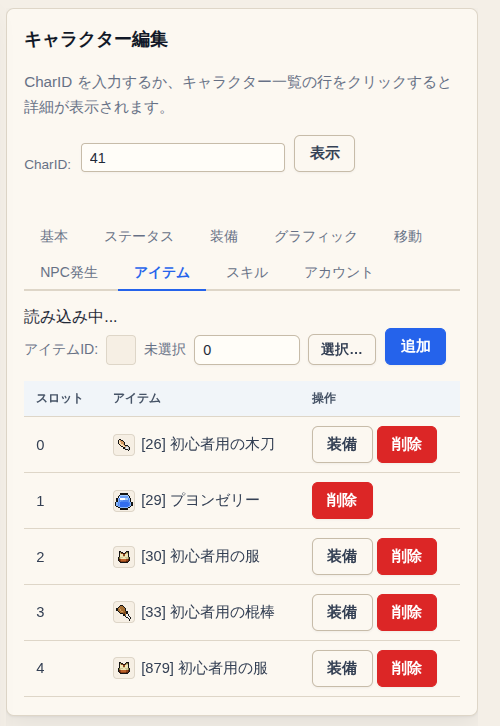
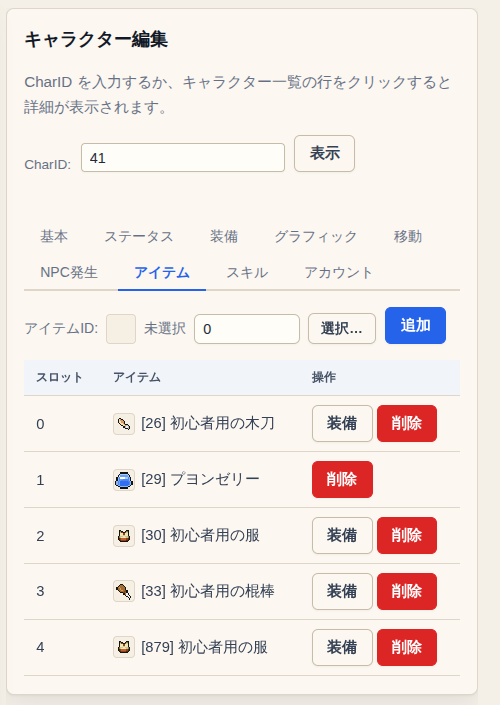
Wiki に「管理画面の各画面」を追加し、スクショを撮り直す
管理画面の全メニューについて、画面ごとにできることをスクショ付きでまとめた。
「管理画面の使い方」のスクショは最新のサーバーで撮り直した。

Claude-Session: https://claude.ai/code/session_01KDC6sbMUyQhZpGjMBxDFK4

diff --git a/wiki/管理画面の各画面.md b/wiki/管理画面の各画面.md
@@ -1,0 +1,249 @@
+Web 管理画面の全メニューについて、画面ごとに何ができるかをまとめたページです。
+よく使う作業の手順は [[管理画面の使い方]] を見てください。
+
+いまの状態をそのまま書いています。管理画面は作っている途中なので、画面が変わったらこのページも直します。
+画像は編集画面（右側）だけを切り出しています。
+
+**目次**
+
+- 運用基盤: [サーバー情報ダッシュボード](#サーバー情報ダッシュボード) / [アカウント作成](#アカウント作成) / [アカウント一覧](#アカウント一覧) / [管理者ロール設定](#管理者ロール設定)
+- キャラクター: [キャラクター基本情報編集](#キャラクター基本情報編集) / [キャラクター一覧](#キャラクター一覧) / [アカウント紐付け・状態変更](#アカウント紐付け状態変更) / [NPC 追加](#npc-追加) / [モーション種別管理](#モーション種別管理) / [モーション編集](#モーション編集) / [スキル一覧・編集](#スキル一覧編集)
+- マップ: [マップ情報編集](#マップ情報編集) / [マップイベント一覧](#マップイベント一覧) / [会話イベント編集](#会話イベント編集) / [マップパーツ編集](#マップパーツ編集) / [マップパーツ配置](#マップパーツ配置) / [マップウィンドウ](#マップウィンドウ) / [マップ影カタログ編集](#マップ影カタログ編集) / [マップオブジェクト配置](#マップオブジェクト配置) / [自動生成マップ設定](#自動生成マップ設定)
+- アイテム・エフェクト: [アイテム種別一覧](#アイテム種別一覧) / [アイテム一覧](#アイテム一覧) / [武器一覧](#武器一覧) / [噴出し一覧](#噴出し一覧) / [エフェクト一覧](#エフェクト一覧) / [画像エディタ](#画像エディタ)
+- 監査・運用: [監査ログ（操作履歴）](#監査ログ操作履歴) / [まだ中身がない画面](#まだ中身がない画面)
+- システム設定: [初期ステータス設定](#初期ステータス設定)
+
+一覧と編集フォームが分かれている画面（スキル・アイテム種別・武器・エフェクトなど）は、どれも同じ使い方です。
+
+- 左（上）の一覧から項目を選ぶと、編集フォームが開きます。
+- 「+ 新規追加」で新しく作れます。
+- 上の「保存」で保存、「削除」で削除、「← 戻る」で一覧に戻ります。
+- 一覧の上の検索欄で、ID や名前で絞り込めます。
+
+---
+
+## 運用基盤
+
+### サーバー情報ダッシュボード
+
+![サーバー情報ダッシュボード](images/admin/screens/server-dashboard.png)
+
+- サーバーの状態（オンラインか、接続人数、メモリ）を表示します。30 秒ごとに自動で更新されます。
+- 「接続中のプレイヤー」に、いまログインしているキャラクター・マップ・座標・接続時間が出ます。
+
+### アカウント作成
+
+![アカウント作成](images/admin/screens/account-create.png)
+
+- 管理用のアカウントを作ります。ログイン ID・表示名・メールアドレス（任意）・パスワードを入れて、付けるロールを選びます。
+
+### アカウント一覧
+
+![アカウント一覧](images/admin/screens/account-list.png)
+
+- すべてのアカウントを、状態（通常・BAN 中・ゴミ箱）、最終ログイン日、キャラ数などで絞り込んで表示します。
+- 「90日以上ログイン無し」「一度もログイン無し」「キャラ0件」のボタンで、よく使う条件をすぐ選べます。
+- チェックを入れたアカウントを、まとめてゴミ箱に入れたり、BAN したり、BAN を解除したりできます。
+- 各アカウントの「コード再発行」で、ログインコードを出し直せます。前のコードとログイン中の端末は使えなくなります。新しいコードは一度しか表示されないので、その場で本人に伝えてください。
+
+### 管理者ロール設定
+
+![管理者ロール設定](images/admin/screens/role-management.png)
+
+- 管理者アカウントごとに、できること（ロール）を選びます。
+- いまのロールは次の6つです。「Server Admin」「Account Create」「Role Update」のどれかを付けると全権限の管理者になります。この画面では、全権限の管理者は1人だけにできます。
+
+| ロール | できること |
+|---|---|
+| Server View | ダッシュボードを見る |
+| Account Create | 管理用アカウントを作る |
+| Role Update | ロールを変える |
+| Server Admin | サーバーの操作 |
+| Map Object View | マップの配置物を見る |
+| Image Edit | 画像エディタで画像を差し替える |
+
+---
+
+## キャラクター
+
+### キャラクター基本情報編集
+
+キャラクターの情報をタブごとに編集します。使い方は [[管理画面の使い方]] の「キャラクターを調べる・直す」を見てください。
+
+### キャラクター一覧
+
+![キャラクター一覧](images/admin/screens/character-list.png)
+
+- キャラクターを、アカウント ID・マップ・種別（プレイヤー / NPC）・名前で検索します。
+- 行をクリックすると「キャラクター基本情報編集」でそのキャラクターが開きます。
+
+### アカウント紐付け・状態変更
+
+![アカウント紐付け・状態変更](images/admin/screens/character-account.png)
+
+- CharID を入れて「表示」を押すと、そのキャラクターのアカウントについて、紐付けの変更、権限レベル、BAN / 解除ができます。
+- 「キャラクター基本情報編集」の「アカウント」タブと同じ内容です。
+
+### NPC 追加
+
+NPC を1体置きます。使い方は [[管理画面の使い方]] の「NPC を置く」を見てください。
+
+### モーション種別管理
+
+![モーション種別管理](images/admin/screens/motion-management.png)
+
+- キャラクターの動きのセット（モーション種別）を作ったり、名前を変えたりします。
+- 「この種別のモーション編集へ」で、中身のモーション編集に移れます。
+
+### モーション編集
+
+![モーション編集](images/admin/screens/motion-edit.png)
+
+- モーション種別を選ぶと、その中の動き（歩く・攻撃する・座るなど、向きごと）が一覧で出ます。
+- 動きを選ぶと、コマごとの画像の重ね方・待ち時間・効果音を編集でき、プレビューで確かめられます。
+
+### スキル一覧・編集
+
+![スキル一覧・編集](images/admin/screens/skill-management.png)
+
+- スキルの名前・使う SP・アイコン・種類（戦闘 / 生活）を編集します。
+- 戦闘スキルは、種類ごとの細かい設定（飛んでいく攻撃の距離や回復量など）もここで決めます。
+- キャラクターにスキルを付けるのは「キャラクター基本情報編集」の「スキル」タブです。
+
+---
+
+## マップ
+
+### マップ情報編集
+
+![マップ情報編集](images/admin/screens/map-info.png)
+
+- マップの一覧から選んで、名前・BGM・天気・暗さ・戦闘できるか・気絶後に回復するか を変えます。
+- 「マップ追加」で新しいマップを作れます（空のマップか、今あるマップのコピー）。
+- 保存すると、遊んでいる人の画面にもすぐ反映されます。
+
+### マップイベント一覧
+
+ワープやゴミ箱などのマップイベントを作ります。使い方は [[管理画面の使い方]] の「ワープ（マップの出入り口）を作る」を見てください。
+
+### 会話イベント編集
+
+![会話イベント編集](images/admin/screens/talk-events.png)
+
+- NPC に話しかけたときの会話を作ります。会話イベントの ID は、NPC のキャラクター ID と同じ番号にします。
+- 「編集」を押すと、会話の中身を行ごとに編集する画面が開きます。行の種類は、メッセージを出す・選択肢を出す・ページを切り替える・スキルを覚えさせる です。
+
+### マップパーツ編集
+
+![マップパーツ編集](images/admin/screens/map-parts.png)
+
+- マップの地面や壁の部品（パーツ）を一覧で表示します。パーツを選ぶと編集フォームが開きます。
+- 画像（下の絵と上に重ねる絵）、アニメーション、通れるかどうか、どの向きから通れるか などを決めます。
+
+### マップパーツ配置
+
+![マップパーツ配置](images/admin/screens/map-parts-place.png)
+
+- パーツを選んでから、ゲーム画面のマスをクリックすると、そのパーツで塗れます。
+- ゲーム画面で右クリックすると、そのマスのパーツを拾えます（スポイト）。
+- 「元に戻す」「やり直す」で、塗った操作を取り消せます。
+- 「編集」を押すと、選んだパーツの編集フォームがこの画面の中に開きます。
+
+### マップウィンドウ
+
+![マップウィンドウ](images/admin/screens/map-window.png)
+
+- ゲーム画面でクリックしたものを、ほかの編集画面へ渡すための画面です。
+- 「ピック対象種別」で、クリックしたときに何を選ぶか（セル・配置物・イベント・キャラ）を切り替えます。
+- 右の「パーツ」「イベント」「配置物」ボタンで、選んだものを編集する画面に移れます。
+
+### マップ影カタログ編集
+
+![マップ影カタログ編集](images/admin/screens/map-shadows.png)
+
+- マップに落とす影の部品を一覧で表示します。選ぶと画像やアニメーションを編集できます。
+
+### マップオブジェクト配置
+
+![マップオブジェクト配置](images/admin/screens/map-objects.png)
+
+- 木・家具・看板のような配置物を置きます。マップを選ぶと、置いてある配置物の一覧が出ます。
+- 一覧の行か、ゲーム画面をクリックすると、配置の編集画面が開きます。種類と座標を決めて「配置を保存」します。
+- 下の「オブジェクトテンプレート管理」で、配置物の種類（名前・大きさ・当たり判定）を作れます。
+
+### 自動生成マップ設定
+
+![自動生成マップ設定](images/admin/screens/map-gen-patterns.png)
+
+- 自動で作るマップ（ダンジョン）の作り方を設定します。まだ試している段階の機能です。
+- 作り方は 洞窟・聖堂・地下墓地・地獄 の4種類から選び、大きさや部屋の数などを決めます。
+- 壁・床・角などに、どのマップパーツを使うかも選べます。
+
+---
+
+## アイテム・エフェクト
+
+### アイテム種別一覧
+
+![アイテム種別一覧](images/admin/screens/item-types.png)
+
+- アイテムの「種類」を作ります（名前・分類・効果・見た目・音）。
+- 分類は 服・アクセサリ・持ち物・盾・HP 増減・灯り などです。回復アイテムは効果の最小値・最大値を決めます。
+- 実際に地面やバッグにある1個1個のアイテムは「アイテム一覧」で扱います。
+
+### アイテム一覧
+
+地面やバッグにあるアイテムを1個ずつ扱います。使い方は [[管理画面の使い方]] の「アイテムを地面に置く」を見てください。
+
+### 武器一覧
+
+![武器一覧](images/admin/screens/weapon-list.png)
+
+- 武器の種類（斬る武器・叩く武器・弓・釣りざおなど）ごとに、使える攻撃の動き（振る・突く・弓・打撃・釣り）、構えや歩き方のモーション、攻撃したときのエフェクトを決めます。
+- アイテム種別の「武器情報 ID」で、どの武器の種類にするかを選びます。
+
+### 噴出し一覧
+
+![噴出し一覧](images/admin/screens/effect-balloon.png)
+
+- キャラクターの頭の上に出る吹き出し（ビックリマークなど）のアニメーションを作ります。コマごとに画像と表示時間を決めます。
+
+### エフェクト一覧
+
+![エフェクト一覧](images/admin/screens/effect-library.png)
+
+- 攻撃したときや防御したときなどのエフェクトを作ります。コマごとに画像・表示時間・透明度を決め、プレビューで再生できます。
+
+### 画像エディタ
+
+![画像エディタ](images/admin/screens/image-editor.png)
+
+- ゲームで使う画像（キャラクター・服・髪・NPC・武器・マップパーツなど）を、種類ごとに表示します。
+- 画像ファイルをアップロードして差し替えられます。差し替えた履歴から前の画像に戻したり、最初の画像に戻したりもできます。
+- 差し替えた画像は、ゲームを読み込み直すと反映されます。
+
+---
+
+## 監査・運用
+
+### 監査ログ（操作履歴）
+
+![監査ログ](images/admin/screens/operation-history.png)
+
+- 管理画面で行った変更（保存・追加・削除）の履歴です。操作した人・種類・対象で絞り込めます。
+- サーバーを再起動すると消えます（最大 500 件）。
+
+### まだ中身がない画面
+
+「監査レポートダウンロード」と「フェイルバック手順」は、画面だけあって、まだ使える機能はありません。
+
+---
+
+## システム設定
+
+### 初期ステータス設定
+
+![初期ステータス設定](images/admin/screens/initial-status.png)
+
+- 新しく作ったキャラクターの、最初にいるマップと座標、HP / SP、能力値を決めます。
+- 変えても、すでにいるキャラクターの能力値はそのままです。βマップの「ステータス初期化」の場所に乗ったときは、この値に戻ります。

diff --git a/wiki/管理画面の使い方.md b/wiki/管理画面の使い方.md
@@ -181,21 +181,4 @@
 
 ## そのほかのメニュー
 
-| メニュー | できること |
-|---|---|
-| サーバー情報ダッシュボード | サーバーの状態、接続中のプレイヤー |
-| アカウント作成 / アカウント一覧 | 管理用アカウントの作成と一覧 |
-| 管理者ロール設定 | 管理者ごとにできる操作を決める |
-| マップ情報編集 | マップの名前・BGM・天気・戦闘できるか など |
-| 会話イベント編集 | NPC に話しかけたときの会話と選択肢 |
-| マップパーツ配置 / マップパーツ編集 | マップの地面や壁を描く、パーツの絵を直す |
-| マップオブジェクト配置 | 木や家具などの配置物を置く |
-| 自動生成マップ設定 | 自動で作るマップの設定 |
-| アイテム種別一覧 / 武器一覧 | アイテムと武器の定義（名前・効果・見た目） |
-| 初期ステータス設定 | 新しく作ったキャラクターの能力値と最初にいる場所 |
-| モーション種別管理 / モーション編集 | キャラクターの動きのアニメーション |
-| エフェクト一覧 / 噴出し一覧 | 攻撃のエフェクトや頭の上の吹き出し |
-| 画像エディタ | ゲームの画像をブラウザで描き直す |
-| 監査ログ（操作履歴） | 管理画面で誰が何を変えたか（サーバーを再起動すると消えます） |
-
-「監査レポートダウンロード」と「フェイルバック手順」は、まだ中身がありません。
+ほかの画面の説明は [[管理画面の各画面]] にまとめています。

diff --git a/wiki/Home.md b/wiki/Home.md
@@ -11,3 +11,4 @@
 ## 運営・管理者向け
 
 - [[管理画面の使い方]]: Web 管理画面でよく使う作業の手順
+- [[管理画面の各画面]]: 管理画面の全メニューの説明

diff --git a/wiki/_Sidebar.md b/wiki/_Sidebar.md
@@ -2,3 +2,4 @@
 - [[遊び方ガイド]]
 - [[世界・データ図鑑]]
 - [[管理画面の使い方]]
+- [[管理画面の各画面]]
